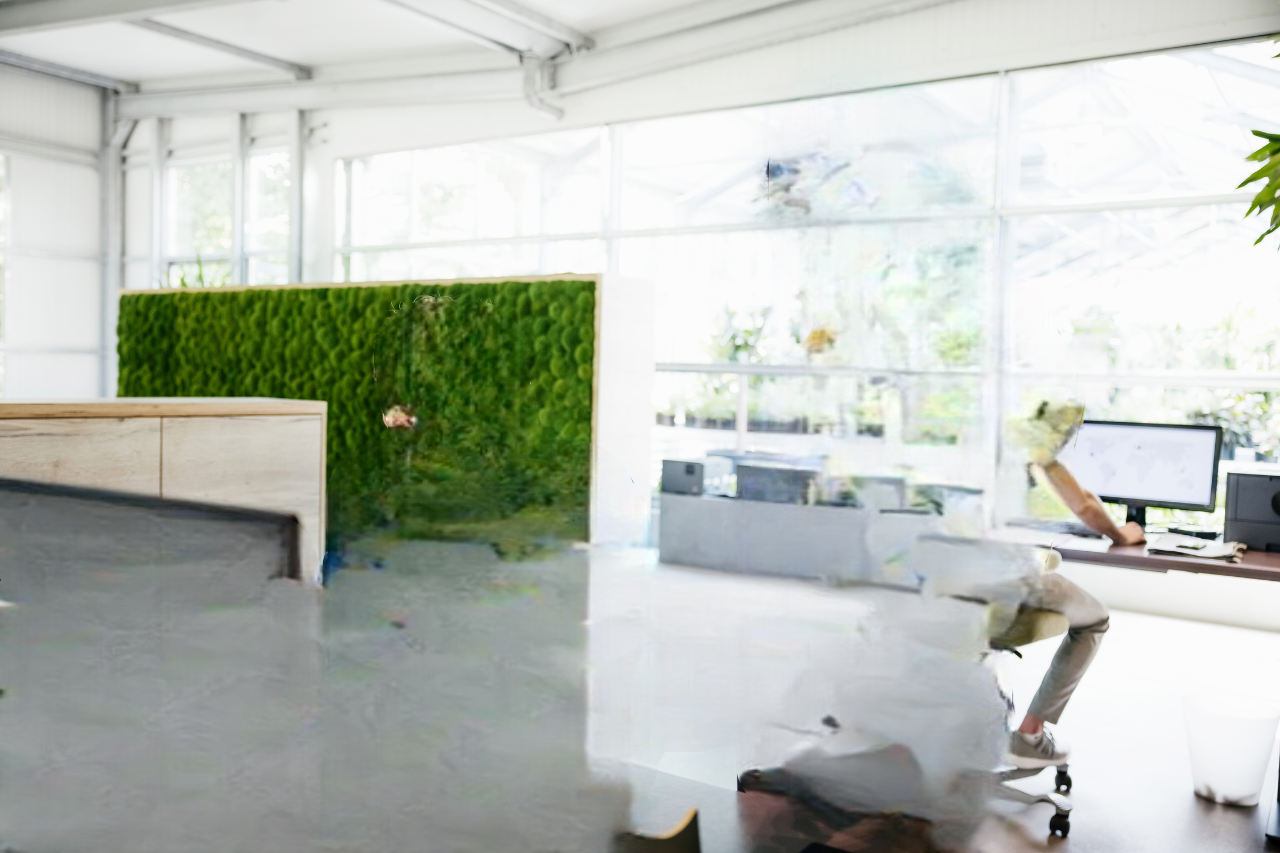
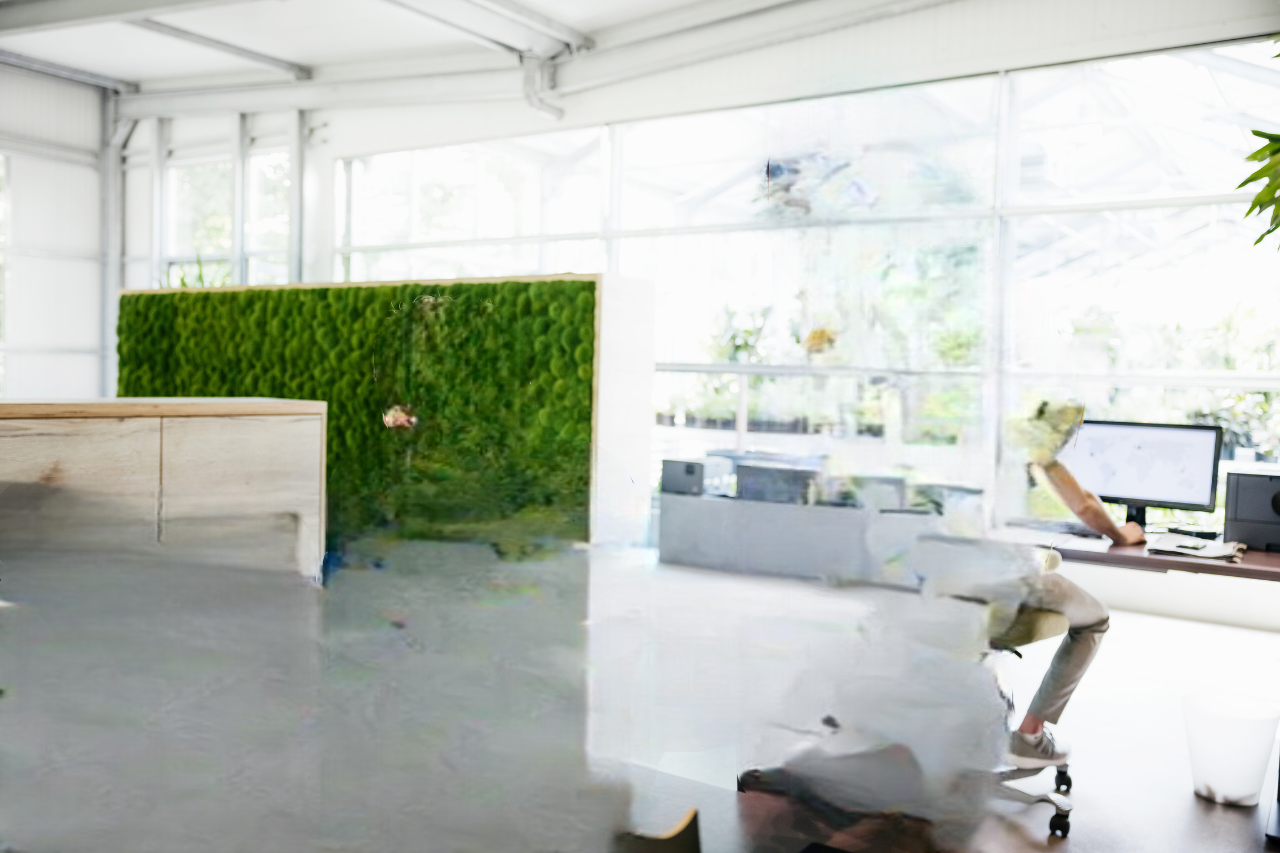
New Changes

Changed region(s): [[0.0, 0.5487, 0.25, 0.7011], [0.0, 0.6096, 0.0312, 0.6706]]

diff --git a/src/sections/section-one.tsx b/src/sections/section-one.tsx
@@ -124,8 +124,8 @@ const SectionOne: React.FC = () => {
               className="top-0 right-0 absolute w-full h-full"
               style={{
                 backgroundImage: `
-     linear-gradient(to right, rgba(255, 255, 255, 1), rgba(255, 255, 255, 0) 20%),
-                       linear-gradient(to top, rgba(255, 255, 255, 1), rgba(255, 255, 255, 0) 20%),
+     linear-gradient(to right, rgba(255, 255, 255, 1) 10%, rgba(255, 255, 255, 0) 20%),
+                       linear-gradient(to top, rgba(255, 255, 255, 1) 0%, rgba(255, 255, 255, 0) 20%),
    
       ${
         backgroundIndex === 0

diff --git a/src/sections/footer-section.tsx b/src/sections/footer-section.tsx
@@ -58,7 +58,7 @@ const Footer: React.FC = () => {
             ))}
           </div>
         </div>
-        <div className="footer-gradient pt-12">
+        <div className="footer-gradient pt-12 pb-4">
           <div className="w-5/6 mx-auto px-4">
             <div className="grid grid-cols-1 sm:grid-cols-3 lg:grid-cols-5 gap-8 text-sm">
               <div>
